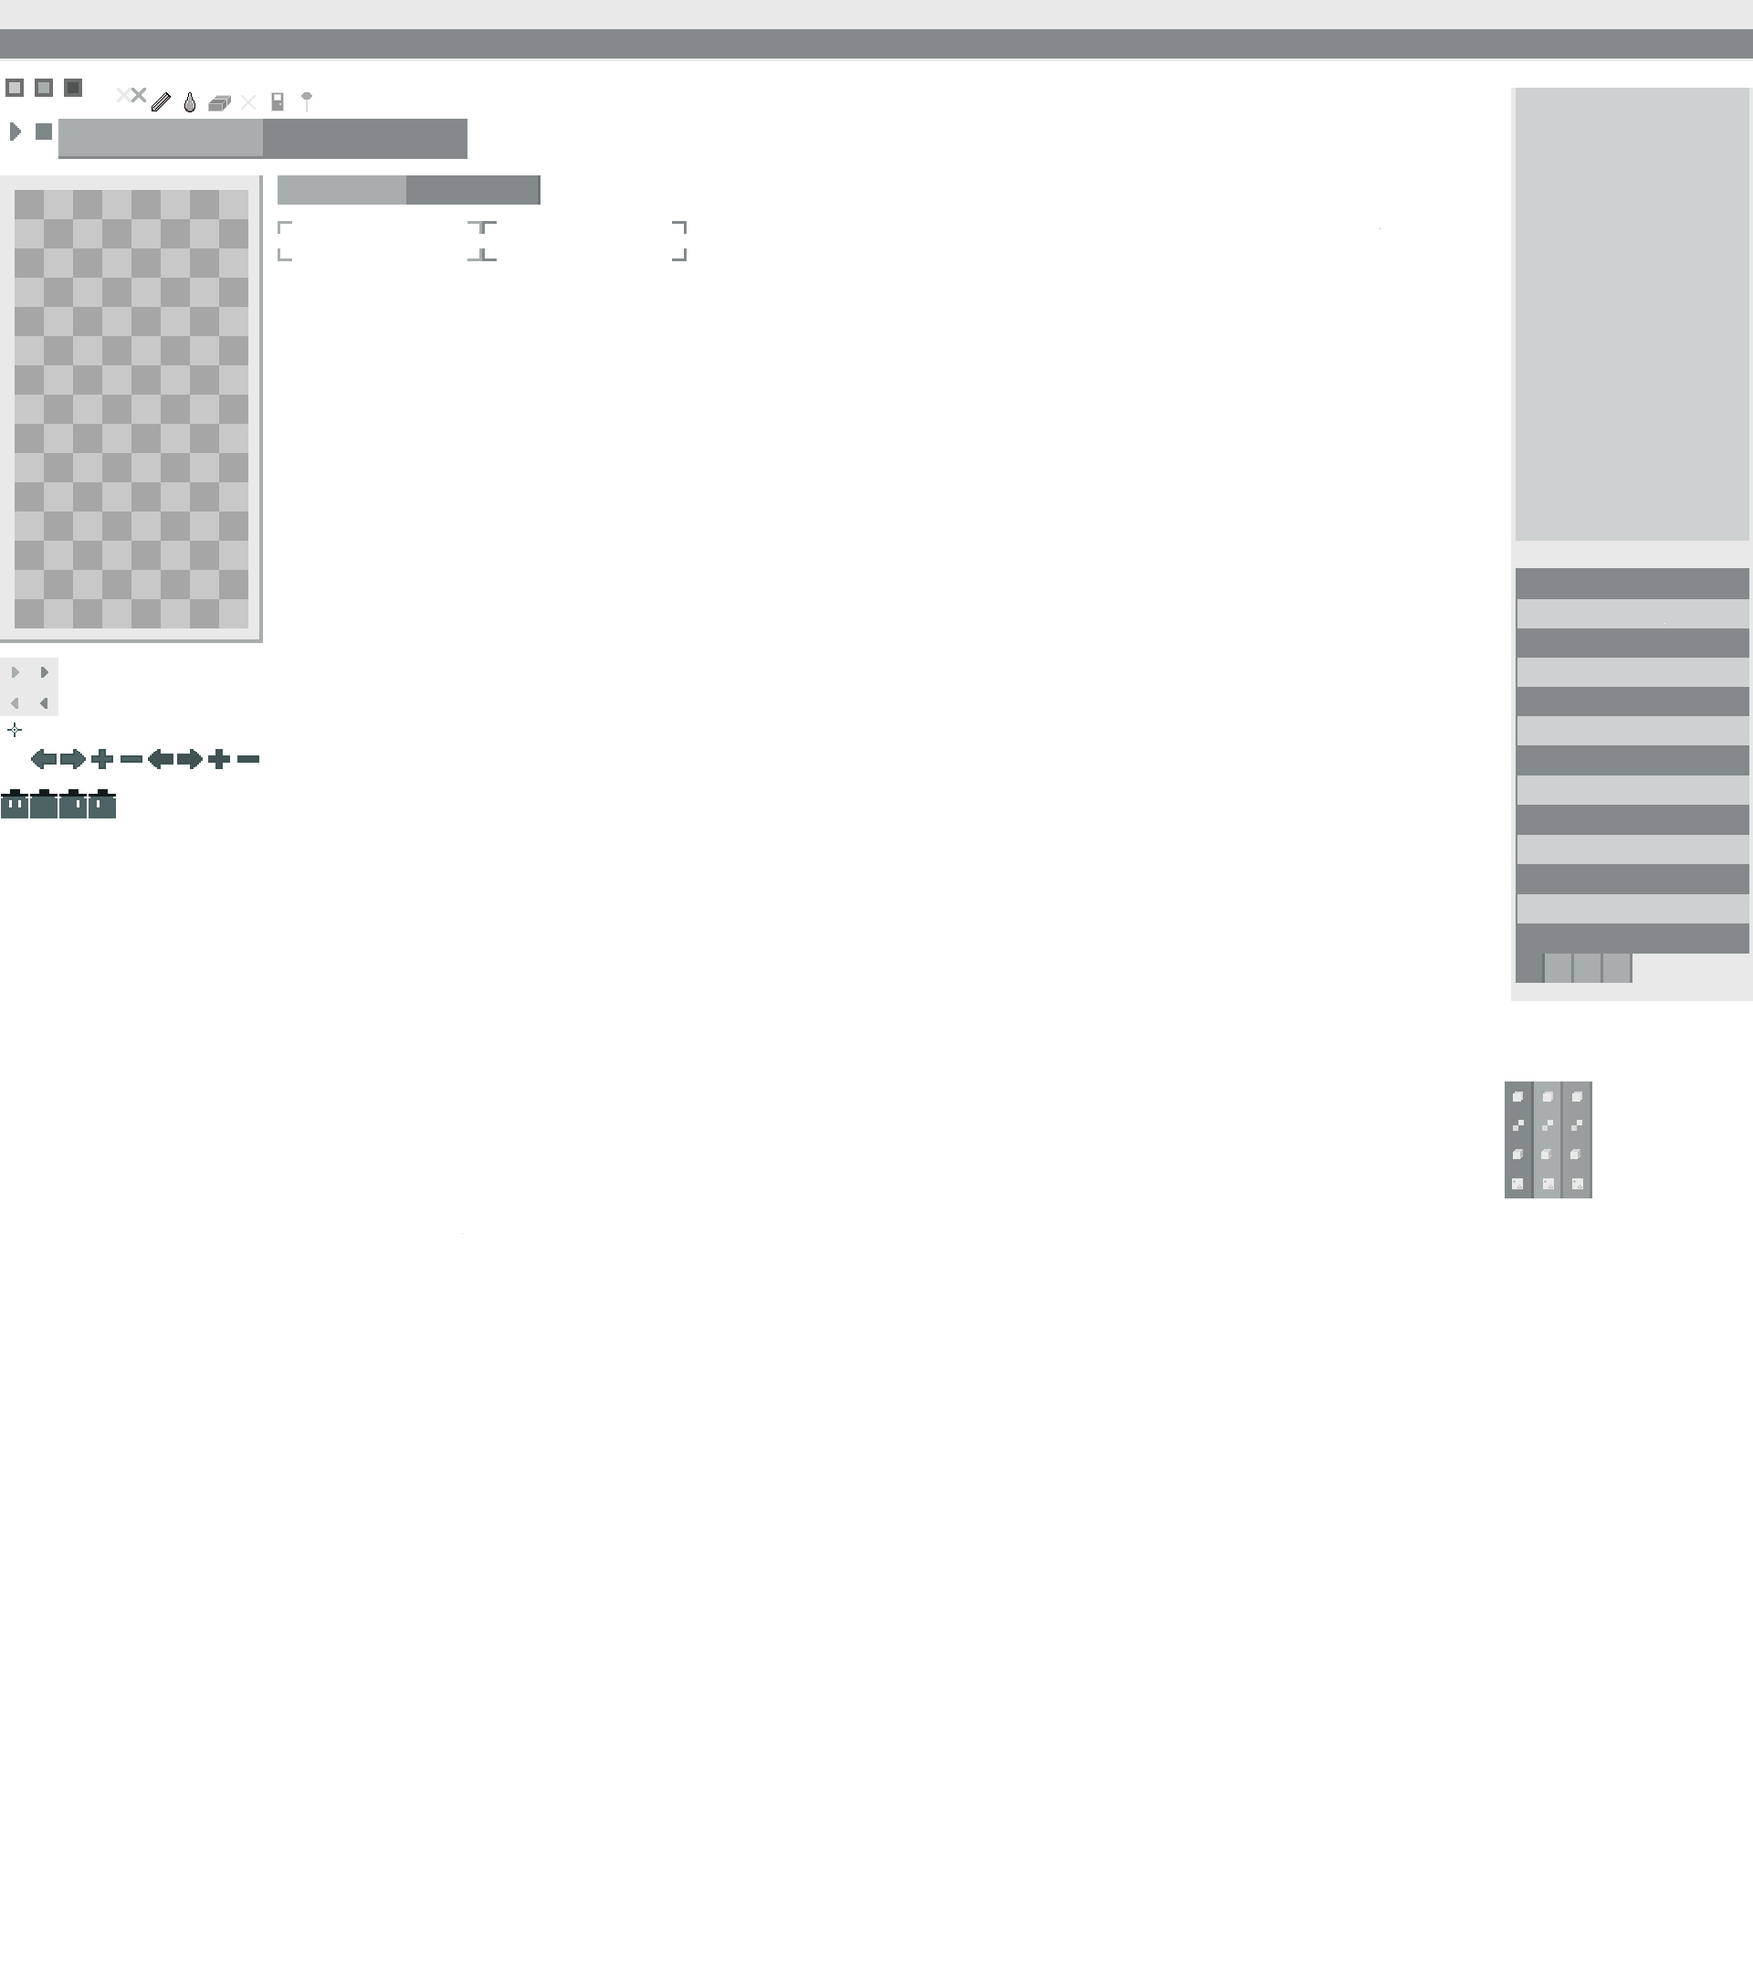
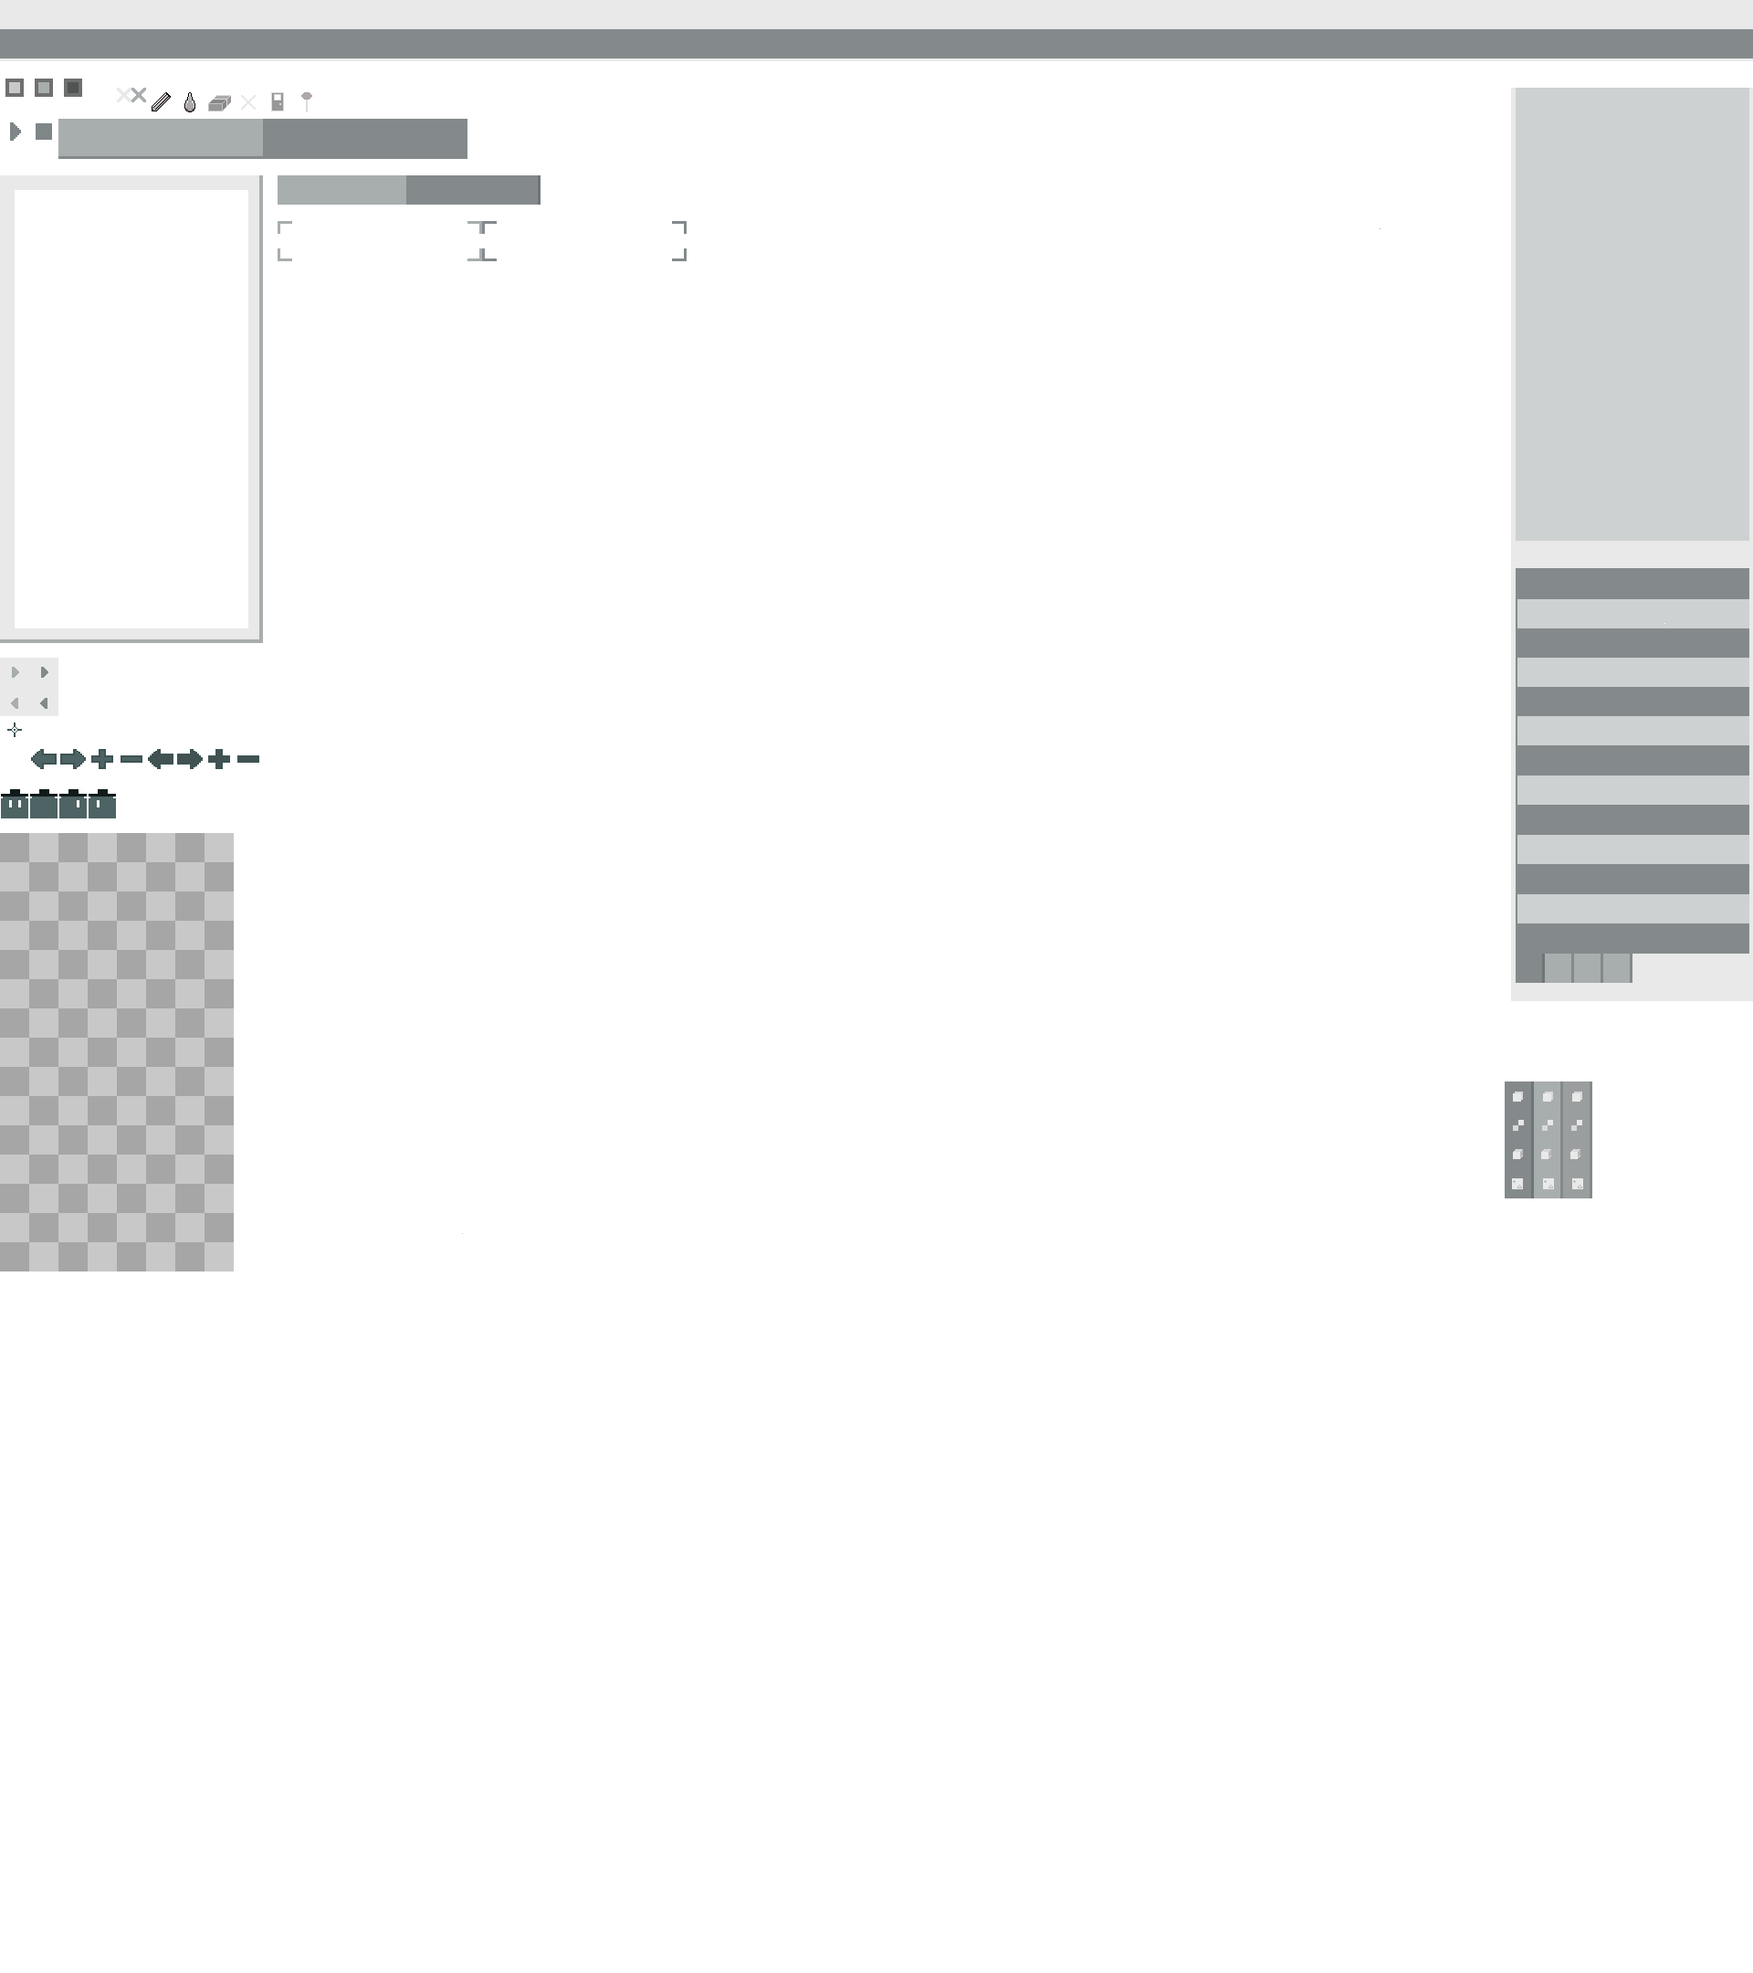
small changes

Changed region(s): [[0.0, 0.4032, 0.1562, 0.6514], [0.0, 0.0931, 0.1562, 0.3412]]

diff --git a/Game1.cs b/Game1.cs
@@ -77,6 +77,8 @@ namespace tile_mapper
         UI_Menu AreaMenu;
         UI_Menu ObjectMenu;
 
+        Vector2 PreviousMousePos;
+
         List<UI_Menu> UI_Elements;
         List<UI_Menu> Scrollable_Menus = new List<UI_Menu>();
         List<UI_Menu> LabelMenus = new List<UI_Menu>();
@@ -112,6 +114,8 @@ namespace tile_mapper
         Button CreateLayerButton;
         Button ClickedTileButton;
 
+        Rectangle SpritePaletteDestination;
+        
 
         Area StartArea;
         Area SelectedArea;
@@ -124,6 +128,8 @@ namespace tile_mapper
 
         Rectangle CharacterRect;
         Vector2 OriginalOffset;
+
+        Vector2 PaletteScrollOffset;
         
         Label CurrentTileID;
         Label Collision;
@@ -201,10 +207,10 @@ namespace tile_mapper
             ScaleX = 1f;
             ScaleY = 1f;
 
-            Import = new Button("Import", new Rectangle(144 - 128/2, ScreenHeight / 2 - 24, 128, 48), 288, 64, ButtonAction.Import, true);
+            Import = new Button("Import", new Rectangle(144 - 128/2, ScreenHeight / 2 - 24, 128, 48), 288, 64, ButtonAction.Import, false);
             Import.SourceRect.Y = 128;
             OpenPalette = new Button("", new Rectangle(0, ScreenHeight / 2 - 32 / 2, 32, 32), 32, 0, ButtonAction.OpenPalette, true);
-            ClosePalette = new Button("", new Rectangle(272, ScreenHeight / 2 - 32 / 2, 32, 32), 32, 0, ButtonAction.ClosePalette, true);
+            ClosePalette = new Button("", new Rectangle(272, ScreenHeight / 2 - 32 / 2, 32, 32), 32, 0, ButtonAction.ClosePalette, false);
 
             DrawTool = new Button("", new Rectangle(0, 32, 32, 32), 160, 160, ButtonAction.DrawTool, true);
             DrawTool.SourceRect.Y = 96;
@@ -276,7 +282,7 @@ namespace tile_mapper
 
             Offset = new Vector2(ScreenWidth/2, ScreenHeight/2);
 
-            TileMenu = new UI_Menu(false, new Rectangle(0, 192, 288, 520), new Rectangle(0, ScreenHeight / 2 - 256, 80, 352));
+            TileMenu = new UI_Menu(false, new Rectangle(0, 192, 288, 512), new Rectangle(0, ScreenHeight / 2 - 256, 288, 512));
             TopBar = new UI_Menu(true, new Rectangle(0, 0, 1920, 80), new Rectangle(0, 0, 1920, 67));
             GeneralOverlay = new UI_Menu(true, new Rectangle(0, 0, 0, 0), new Rectangle(0, 0, 0, 0));
             Properties = new UI_Menu(true, new Rectangle(1655, 64, 266, 1080), new Rectangle(1655, 0, 266, 1080));
@@ -363,8 +369,8 @@ namespace tile_mapper
             TopBar.buttons.Add(SheetScreen);
             TopBar.buttons.Add(RuleSetScreen);
             GeneralOverlay.buttons.Add(OpenPalette);
-            TileMenu.buttons.Add(Import);
-            TileMenu.buttons.Add(ClosePalette);
+            GeneralOverlay.buttons.Add(Import);
+            GeneralOverlay.buttons.Add(ClosePalette);
 
             Properties.buttons.Add(LayerMenuButton);
             Properties.buttons.Add(ObjectMenuButton);
@@ -426,6 +432,8 @@ namespace tile_mapper
 
             ScrollMenuBounds = new RenderTarget2D(GraphicsDevice, LayerMenu.Destination.Width, LayerMenu.Destination.Height);
 
+            SpritePaletteDestination = new Rectangle(TileMenu.Destination.X + 16, TileMenu.Destination.Y + 16, TileMenu.Destination.Width - 32, TileMenu.Destination.Height - 32);
+
             base.Initialize();
         }
 
@@ -463,6 +471,14 @@ namespace tile_mapper
             HandleLeftClick(mouseState);
             HandleLeftHold(mouseState, keyboardState);
 
+            if(mouseState.RightButton == ButtonState.Pressed)
+            {
+                if(PreviousMousePos != null && PreviousMousePos != MousePos && SpritePaletteDestination.Contains(MousePos))
+                {
+                    PaletteScrollOffset -= PreviousMousePos - MousePos;
+                }
+            }
+
             //if(mouseState.LeftButton == ButtonState.Pressed)
             //{
             //    TimeSinceLastClick = DoubleClickTimer.ElapsedGameTime.Milliseconds;
@@ -491,7 +507,7 @@ namespace tile_mapper
                 foreach (var rect in TileSpriteList[currentPage])
                 {
                     // User is hoovering on sprite tile.
-                    if (rect.Destination.Contains(MousePos))
+                    if (rect.Destination.Contains(MousePos - PaletteScrollOffset))
                     {
                         // User selected a sprite.
                         if (mouseState.LeftButton == ButtonState.Pressed)
@@ -631,6 +647,7 @@ namespace tile_mapper
             OriginalScrollWheelValue = mouseState.ScrollWheelValue;
             PreviousMouseState = mouseState;
             PreviousKeybordState = keyboardState;
+            PreviousMousePos = MousePos;
 
             base.Update(gameTime);
         }
@@ -678,17 +695,30 @@ namespace tile_mapper
                 Renderer.DrawArea(CurrentArea, Offset, TILE_SIZE, TestingScale, ScreenWidth, ScreenHeight, CurrentMap, _spriteBatch, TileSheet);
                 _spriteBatch.Draw(UI, CharacterRect, CharacterSource, Color.White);
             }
+            _spriteBatch.End();
+
+            Rectangle orgScissorRec = _spriteBatch.GraphicsDevice.ScissorRectangle;
+            RasterizerState rasterizerState = new RasterizerState() { ScissorTestEnable = true };
+
+            // Tile palette cropping
+            _spriteBatch.GraphicsDevice.ScissorRectangle = TileMenu.Destination;
+            _spriteBatch.Begin(SpriteSortMode.Immediate, BlendState.AlphaBlend, SamplerState.PointClamp, DepthStencilState.Default, rasterizerState);
+
+            // Sprite palette menu
+            if (TilePaletteVisible)
+                Renderer.DrawPalette(HasTileSheet, TileSpriteList, _spriteBatch, selected, UI, TileSheet, TileMenu, PaletteScrollOffset, SpritePaletteDestination);
+
+            _spriteBatch.End();
+
+            _spriteBatch.Begin(samplerState: SamplerState.PointClamp);
 
             // UI elements
             foreach (var menu in UI_Elements)
             {
                 menu.Draw(_spriteBatch, UI, ScreenHeight, ScreenWidth, ScaleX, ScaleY, font, TextScale, false);
             }
-
             _spriteBatch.End();
 
-            Rectangle orgScissorRec = _spriteBatch.GraphicsDevice.ScissorRectangle;
-            RasterizerState rasterizerState = new RasterizerState() { ScissorTestEnable = true };
             _spriteBatch.GraphicsDevice.ScissorRectangle = LayerMenu.Destination;
 
             _spriteBatch.Begin(SpriteSortMode.Immediate, BlendState.AlphaBlend, SamplerState.LinearClamp, DepthStencilState.Default, rasterizerState);
@@ -701,13 +731,10 @@ namespace tile_mapper
 
             _spriteBatch.End();
 
+            
+
             _spriteBatch.GraphicsDevice.ScissorRectangle = orgScissorRec;
             _spriteBatch.Begin(samplerState: SamplerState.PointClamp);
-
-            // Sprite palette menu
-            if (TilePaletteVisible)
-                Renderer.DrawPalette(HasTileSheet, TileSpriteList, _spriteBatch, selected, Grid, TileSheet);
-
             // Draw cordinates
             string Cords = "X: " + SelectedX.ToString() + " Y: " + SelectedY.ToString();
             _spriteBatch.DrawString(font, Cords, new Vector2(96 - font.MeasureString(Cords).X/2, ScreenHeight - 64), Color.White, 0f, Vector2.Zero, TextScale, SpriteEffects.None, 0f);
@@ -737,7 +764,6 @@ namespace tile_mapper
         {
             
         }
-
 
         internal void OpenSpriteSheetFile(string path)
         {
@@ -912,8 +938,11 @@ namespace tile_mapper
                             WriteFile();
                             break;
                         case ButtonAction.OpenPalette:
-                            TileMenu.IsVisible = true;
-                            GeneralOverlay.buttons[0].IsVisible = false;
+                            // TileMenu.IsVisible = true;
+                            OpenPalette.IsVisible = false;
+                            ClosePalette.IsVisible = true;
+                            if(!HasTileSheet)
+                                Import.IsVisible = true;
                             TilePaletteVisible = true;
                             break;
                         case ButtonAction.DrawTool:
@@ -969,8 +998,10 @@ namespace tile_mapper
                             CursorActionState = CursorState.SpecifyDoor;
                             break;
                         case ButtonAction.ClosePalette:
-                            TileMenu.IsVisible = false;
-                            GeneralOverlay.buttons[0].IsVisible = true;
+                            // TileMenu.IsVisible = false;
+                            OpenPalette.IsVisible = true;
+                            Import.IsVisible = false;
+                            ClosePalette.IsVisible = false;
                             TilePaletteVisible = false;
                             break;
                         case ButtonAction.TestState:
@@ -1044,7 +1075,7 @@ namespace tile_mapper
                                 break;
                             case ButtonAction.RemoveArea:
                                 CurrentMap.RemoveArea(buttonClicked.HelperInt);
-                                if(SelectedArea.AreaName == CurrentMap.areas[buttonClicked.HelperInt].AreaName)
+                                if(SelectedArea.AreaName != null && SelectedArea.AreaName == CurrentMap.areas[buttonClicked.HelperInt-1].AreaName)
                                     SelectedArea = null;
 
                                 AreaMenu.buttons.Remove(AreaMenu.buttons[buttonClicked.HelperInt]);
@@ -1064,6 +1095,9 @@ namespace tile_mapper
 
         internal void HandleLeftHold(MouseState mouseState, KeyboardState keyboardState)
         {
+            foreach (var menu in UI_Elements)
+                if (menu.Destination.Contains(MousePos))
+                    return;
             // Execute each frame if mouse button is held.
             if (mouseState.LeftButton == ButtonState.Pressed && selected != null)
             {

diff --git a/Renderer.cs b/Renderer.cs
@@ -4,8 +4,6 @@ using Microsoft.Xna.Framework.Input;
 using System;
 using System.Collections.Generic;
 using System.Linq;
-using System.Text;
-using System.Threading.Tasks;
 using static System.Formats.Asn1.AsnWriter;
 
 namespace tile_mapper
@@ -161,24 +159,49 @@ namespace tile_mapper
                 }
         }
 
-        public static void DrawPalette(bool HasTileSheet, List<List<SpriteTile>> TileSpriteList, SpriteBatch spriteBatch, SpriteTile selected, Texture2D Grid, Texture2D TileSheet)
+        public static void DrawPalette(bool HasTileSheet, List<List<SpriteTile>> TileSpriteList, SpriteBatch spriteBatch, SpriteTile selected, Texture2D UI, Texture2D TileSheet, UI_Menu TileMenu, Vector2 ScrollOffset, Rectangle PaletteDestination)
         {
+            Vector2 Difference = new Vector2(-ScrollOffset.X, -ScrollOffset.Y);
+
+            int StartX = (int)(Difference.X / 64 / 1f);
+            int EndX = (int)((Difference.X + 256) / 64 / 1f);
+            int StartY = (int)(Difference.Y / 64 / 1f);
+            int EndY = (int)((Difference.Y + 480) / 64 / 1f);
+
+            StartX--;
+            StartY--;
+            EndX++;
+            EndY++;
+
+            Rectangle Dest = new Rectangle((int)(PaletteDestination.X + ScrollOffset.X), (int)(PaletteDestination.Y + ScrollOffset.Y), PaletteDestination.Width, PaletteDestination.Height);  
+
+            for(int y = StartY ; y < EndY; y++)
+            {
+                for(int x = StartX ; x < EndX; x++)
+                {
+                    Rectangle AdjDest = new Rectangle((int)(Dest.X + x * 64), (int)(Dest.Y + y * 64), 64, 64);
+                    spriteBatch.Draw(UI, AdjDest, new Rectangle(0, 912, 64, 64), Color.White);
+                }
+            }
+
             if (HasTileSheet)
             {
                 foreach (var list in TileSpriteList)
                 {
                     foreach (var rectangle in list)
                     {
-                        spriteBatch.Draw(TileSheet, new Vector2(rectangle.Destination.X, rectangle.Destination.Y), rectangle.Source, Color.White, 0f, Vector2.Zero, 2f, SpriteEffects.None, 0);
+                        spriteBatch.Draw(TileSheet, new Vector2((int) rectangle.Destination.X + ScrollOffset.X, (int) rectangle.Destination.Y + ScrollOffset.Y), rectangle.Source, Color.White, 0f, Vector2.Zero, 2f, SpriteEffects.None, 0);
                         if (rectangle.hovers)
-                            spriteBatch.Draw(Grid, rectangle.Destination, new Rectangle(320, 0, 16, 16), Color.White);
+                            spriteBatch.Draw(UI, new Rectangle((int) (rectangle.Destination.X + ScrollOffset.X), (int) (rectangle.Destination.Y + ScrollOffset.Y), rectangle.Destination.Width, rectangle.Destination.Height), new Rectangle(0, 896, 16, 16), Color.White);
                         if (selected != null && rectangle.ID == selected.ID)
                         {
-                            spriteBatch.Draw(Grid, rectangle.Destination, new Rectangle(336, 0, 16, 16), Color.White);
+                            spriteBatch.Draw(UI, new Rectangle((int)(rectangle.Destination.X + ScrollOffset.X), (int)(rectangle.Destination.Y + ScrollOffset.Y), rectangle.Destination.Width, rectangle.Destination.Height), new Rectangle(16, 896, 16, 16), Color.White);
                         }
                     }
                 }
             }
+
+            spriteBatch.Draw(UI, TileMenu.Destination, TileMenu.Source, Color.White);
         }
     }
 }
